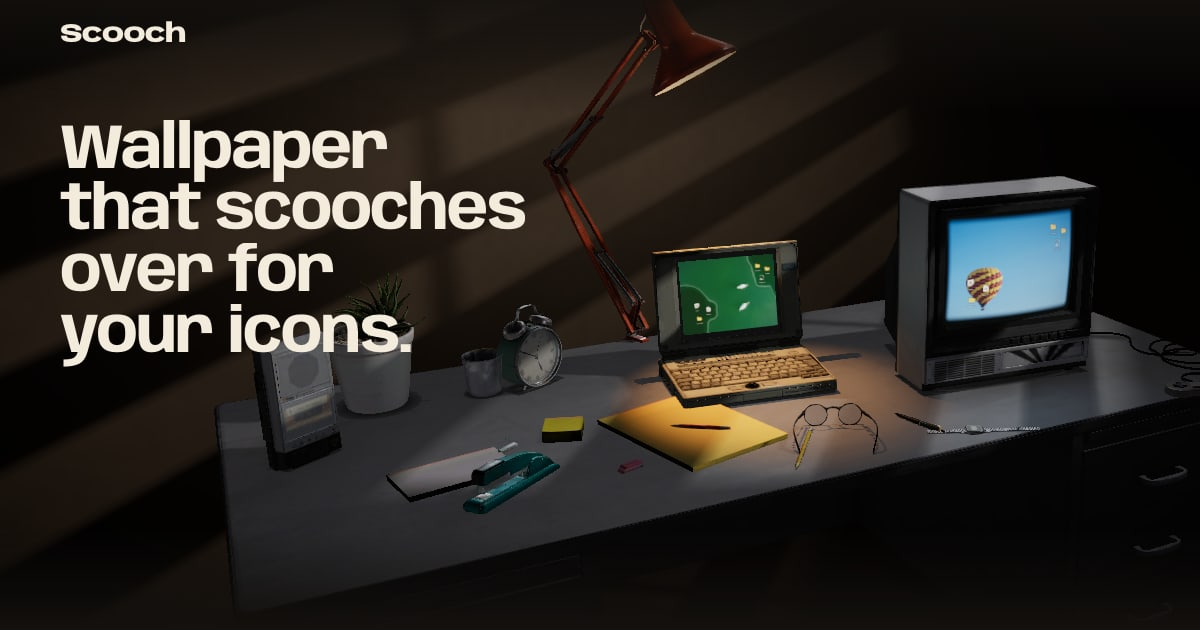
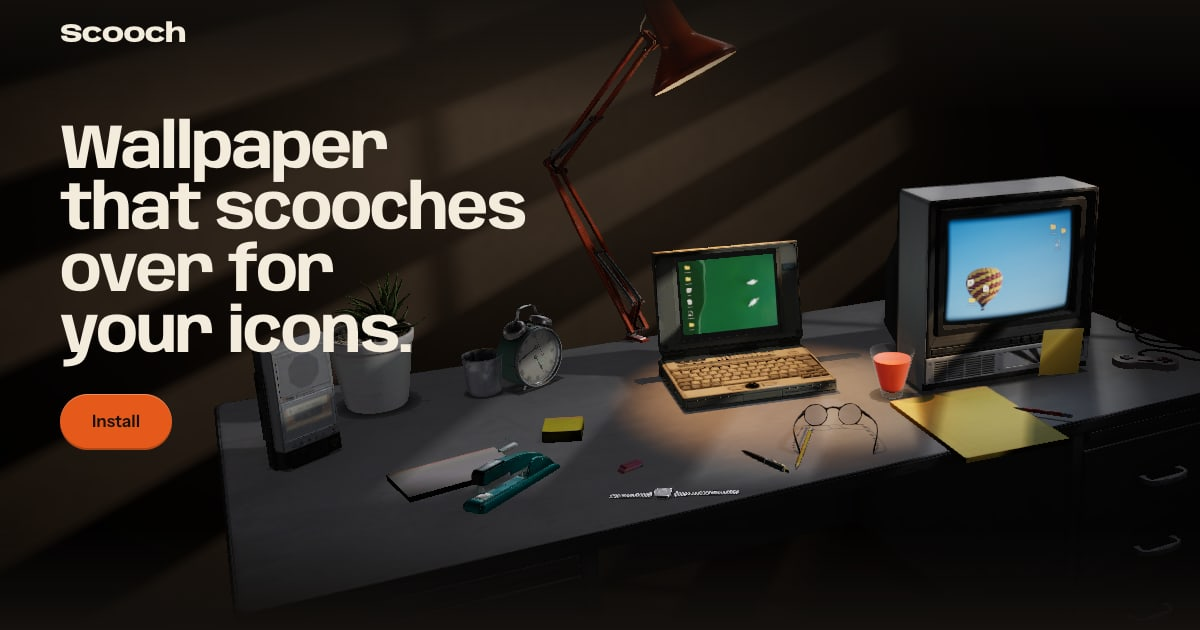
Retake stills and the share image

diff --git a/site/index.html b/site/index.html
@@ -18,7 +18,7 @@
     <meta property="og:title" content="Scooch moves your wallpaper out from under your icons" />
     <meta property="og:description" content="Scooch moves your own wallpaper so desktop icons stay off the best part of the picture. It works with any image on macOS, Windows and Linux." />
     <meta property="og:url" content="https://sohanbhat.me/scooch/" />
-    <meta property="og:image" content="https://sohanbhat.me/scooch/share.jpg?v=1" />
+    <meta property="og:image" content="https://sohanbhat.me/scooch/share.jpg?v=2" />
     <meta property="og:image:width" content="1200" />
     <meta property="og:image:height" content="630" />
     <meta property="og:image:alt" content="An old beige laptop on a metal desk under an orange lamp, next to the words Wallpaper that scooches over for your icons." />
